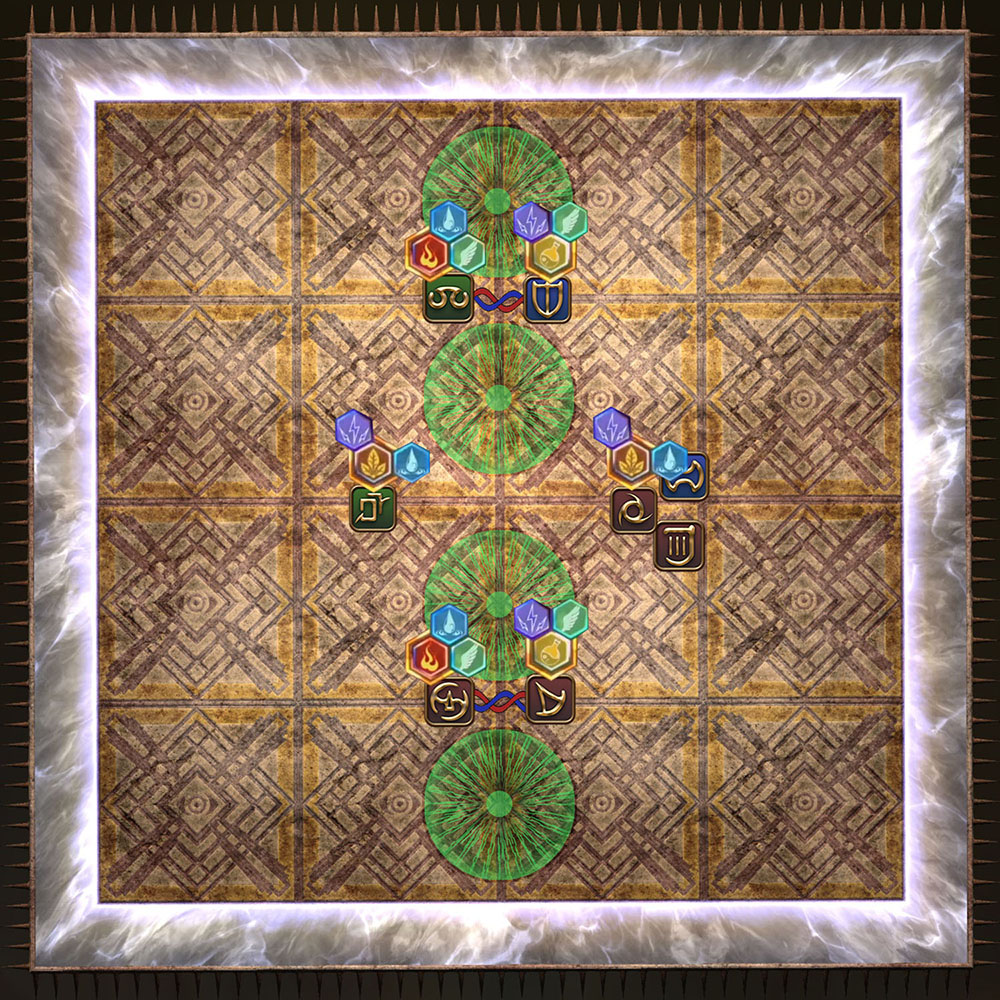
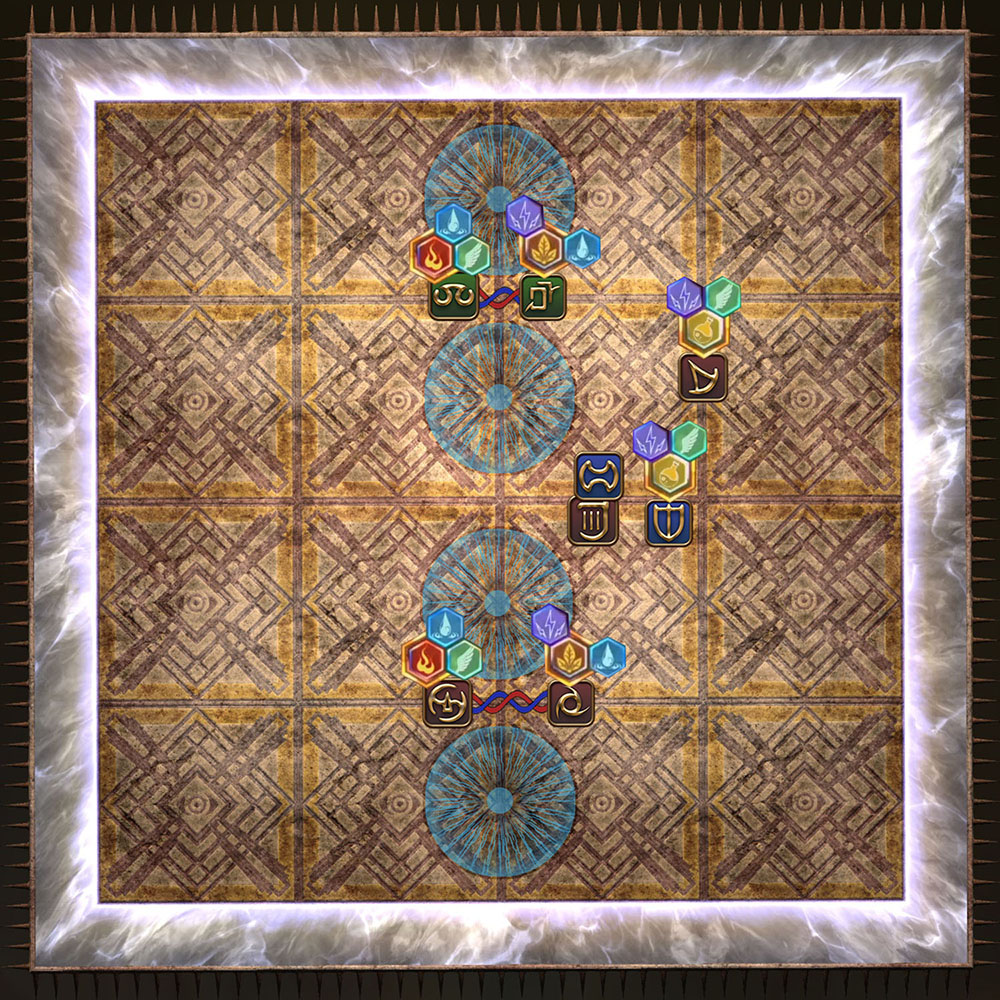
P8S2 restoration

Changed region(s): [[0.31, 0.124, 0.744, 0.899]]

diff --git a/guides/savages/pandaemonium/P8S_Part2.md b/guides/savages/pandaemonium/P8S_Part2.md
@@ -63,10 +63,10 @@ ___
 ___
 
 + **<u>End of Days</u>:**
-4 clones will appear outside the arena with 2 clones on the West side and 2 clones on the East side. Each clone will face a different row and the two first rows cannot have clones on the same side.
+6 clones will appear outside the arena with 3 clones on the West side and 3 clones on the East side. Each clone will face a row and the two first rows cannot have clones on the same side.
 The West clones will fire first then will the East clones. Their attack is a line AoE, as wide as a row, dealing <span class='magic'>magical damage</span> and applying a <span class='debuff'>Damage Down</span>.
 
-  Clones can also appear on cardinal and tether to the closest player. They can be drag along the edge and after 5 seconds, the player is <span class='debuff'>Bind</span> and the clones use **End of Days**, dealing <span class='magic'>magical damage</span>.
+  4 clones can also appear on cardinal and tether to the closest player. They can be drag along the edge and after 5 seconds, the player is <span class='debuff'>Bind</span> and the clones use **End of Days**, dealing <span class='magic'>magical damage</span>.
 
 ___
 
@@ -154,7 +154,7 @@ Then *Hephaistos* will cast **Natural Alignment** <span class='speDebuff'>Natura
 {% assign slideCounter = 0 %}
 {% include slideshow.html imgLink="nature1-1.jpg;nature1-2.jpg;nature1-3.jpg" imgDesc="Stack middle;Dodge the baited AoEs and spread around them (or stack in front for the share);Dodge <strong>Ashing Blaze</strong> and regroup for the share (or spread for the AoEs)" slideNumber=slideCounter %}
 
-Then the 4 clones will spawn but only identify the clones of the first two rows. Since the West clones cast **End of Days** first, move on the row where the East clone is. The <span class='speDebuff'>Natural Alignment</span> players must stand in the middle of the row in order to resolve the Fire or Ice gauge:
+Then the 6 clones will spawn but only identify the clones of the first two rows. Since the West clones cast **End of Days** first, move on the row where the East clone is. The <span class='speDebuff'>Natural Alignment</span> players must stand in the middle of the row in order to resolve the Fire or Ice gauge:
 
 + For Fire, form pairs. For each pair, one player player must be on the outer tile to bait the share and the other must be on the inner tile.
 + For Ice, form two groups of three players. On each group, one player player must be on the inner tile to bait the share and the two other must be on the outer tile. Two players must
@@ -168,16 +168,20 @@ Then quickly regroup middle and mitigate for **Aioniopyr**. *Hephaistos* will do
 <a id='SHighConcept1'></a>Now the boss will cast **High Concept**. The players with a short duration on <span class='speDebuff'>Imperfection: Alpha</span>, <span class='speDebuff'>Imperfection: Beta</span> and <span class='speDebuff'>Imperfection: Gamma</span> must move to the North West, North East and South West cardinals respectively. The rest will move to the South East quadrant, the <span class='speDebuff'>Supersplice</span> player stack with the long <span class='speDebuff'>Imperfection: Alpha</span> and <span class='speDebuff'>Imperfection: Beta</span> around the East and the <span class='speDebuff'>Multisplice</span> with the long <span class='speDebuff'>Imperfection: Gamma</span> stack around South:
 <img class='soloImg' src='{{ page.imagePath | append: 'hc1-1.jpg' }}'>
 
-Once **Conceptual Shift** happens, the <span class='speDebuff'>Perfection: Alpha</span> and <span class='speDebuff'>Perfection: Beta</span> will regroup between the towers and  combine into <span class='buff'>Winged Conception</span> then they'll step inside the towers. In the meantime, the rest of group will move middle for heals and get ready to stand on the left or right side of the arena for **Ashing Blaze**:
+Once **Conceptual Shift** happens, two towers of a random element will appear. The two players that have the tower element as a a secondary element will regroup between the towers and combine into the correct element (<span class='buff'>Winged Conception</span> in this example), then they'll step inside the towers. In the meantime, the rest of group and the remaining <span class='speDebuff'>Perfection</span> debuff will move middle for heals and get ready to stand on the left or right side of the arena for **Ashing Blaze**:
 {% assign slideCounter = slideCounter | plus: 1 %}
 {% include slideshow.html imgLink="hc1-2.jpg;hc1-3.jpg;hc1-4.jpg" imgDesc="<strong>Conceptual Shift</strong> happens;Regroup mid. Alpha and Beta create Wind Conception;Dodge <strong>Ashing Blaze</strong> while Wind Conceptions step in the towers" slideNumber=slideCounter %}
 
-Then the long duration <span class='speDebuff'>Imperfection: Alpha</span>, <span class='speDebuff'>Imperfection: Beta</span> and <span class='speDebuff'>Imperfection: Gamma</span> must respectively move to the North West, North East and South West cardinals. The previous <span class='speDebuff'>Multisplice</span> and <span class='speDebuff'>Supersplice</span> move to with the Alpha and Beta player respectively to get hit. Lastly, the players with a concept must stand in the South East quadrant:
+Then the long duration <span class='speDebuff'>Imperfection: Alpha</span>, <span class='speDebuff'>Imperfection: Beta</span> and <span class='speDebuff'>Imperfection: Gamma</span> must respectively move to the North West, North East and South West cardinals. The remaining <span class='speDebuff'>Perfection</span> debuff can go back to his previous corner to reset his debuff duration if needed.  
+Each of the previous <span class='speDebuff'>Multisplice</span> and <span class='speDebuff'>Supersplice</span> players will move to a Alpha, Beta and Gamma corner. Since we need two of each <span class='speDebuff'>Imperfection</span> debuff, they must join a corner to receive a <span class='speDebuff'>Imperfection</span>. The must receive the debuffs that were used to create the previous Concept (<span class='speDebuff'>Imperfection: Alpha</span>, <span class='speDebuff'>Imperfection: Beta</span> in this diagram).  
+Lastly, the players with a concept must stand in the South East quadrant with the remaining <span class='speDebuff'>Perfection</span>:
 <img class='soloImg' src='{{ page.imagePath | append: 'hc1-5.jpg' }}'>
 
-After **Conceptual Shift** hit, the previous <span class='speDebuff'>Imperfection: Alpha</span> and <span class='speDebuff'>Imperfection: Beta</span> will move between the North towers to combine into <span class='buff'>Winged Conception</span> while the <span class='speDebuff'>Multisplice</span> and <span class='speDebuff'>Supersplice</span> players will do the same between the South towers. The two <span class='speDebuff'>Imperfection: Gamma</span> players must take care to not create a concept. Then move inside the towers and dodge the second  **Ashing Blaze**:
+After the second **Conceptual Shift** hit, four towers of a random element will appear. The 4 players that have the tower element as a secondary element must create this concept to soak the towers. The players with the long duration <span class='speDebuff'>Imperfection</span> will move between the North towers and combine while the spare <span class='speDebuff'>Imperfection</span> will do the same between the South towers (for <span class='buff'>Aquatic Conception</span> in this example).  
+The two remaining <span class='speDebuff'>Imperfection</span> players must take care to not create a concept.  
+Once the concepts are created, move inside the towers. Then everyone move to the safe half to dodge the second  **Ashing Blaze**:
 {% assign slideCounter = slideCounter | plus: 1 %}
-{% include slideshow.html imgLink="hc1-6.jpg;hc1-7.jpg;hc1-8.jpg" imgDesc="<strong>Conceptual Shift</strong> happens;Alpha and Beta create Wind Conception North, previous Multisplice and Supersplice do the same South;Dodge <strong>Ashing Blaze</strong> while Wind Conceptions step in the towers" slideNumber=slideCounter %}
+{% include slideshow.html imgLink="hc1-6.jpg;hc1-7.jpg;hc1-8.jpg" imgDesc="<strong>Conceptual Shift</strong> happens;Long duration Alpha and Gamma create Aquatic Conception North, spare Alpha and Gamma do the same South;Dodge <strong>Ashing Blaze</strong> while Aquatic Conceptions step in the towers" slideNumber=slideCounter %}
 </div>
 
 <div class='guideSection' markdown='1'>
